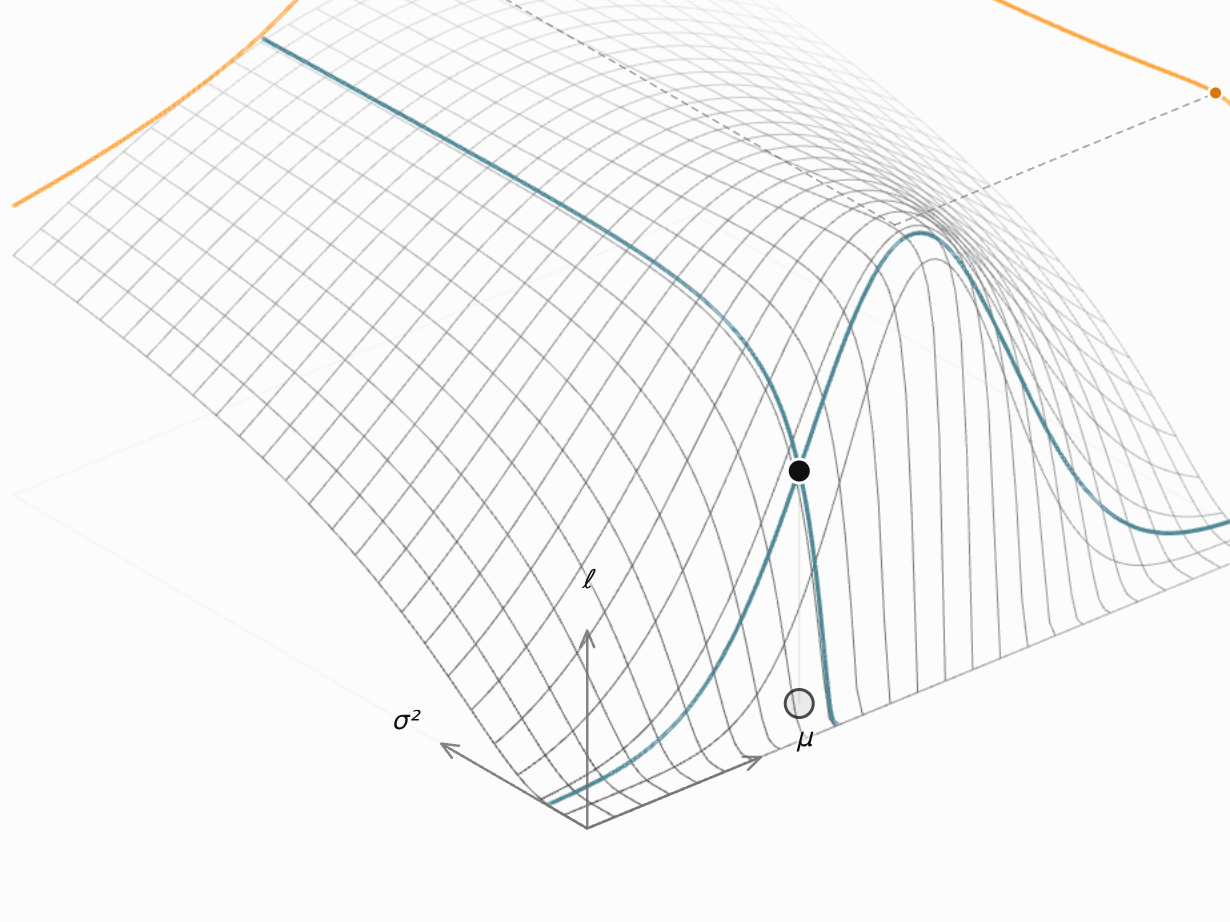
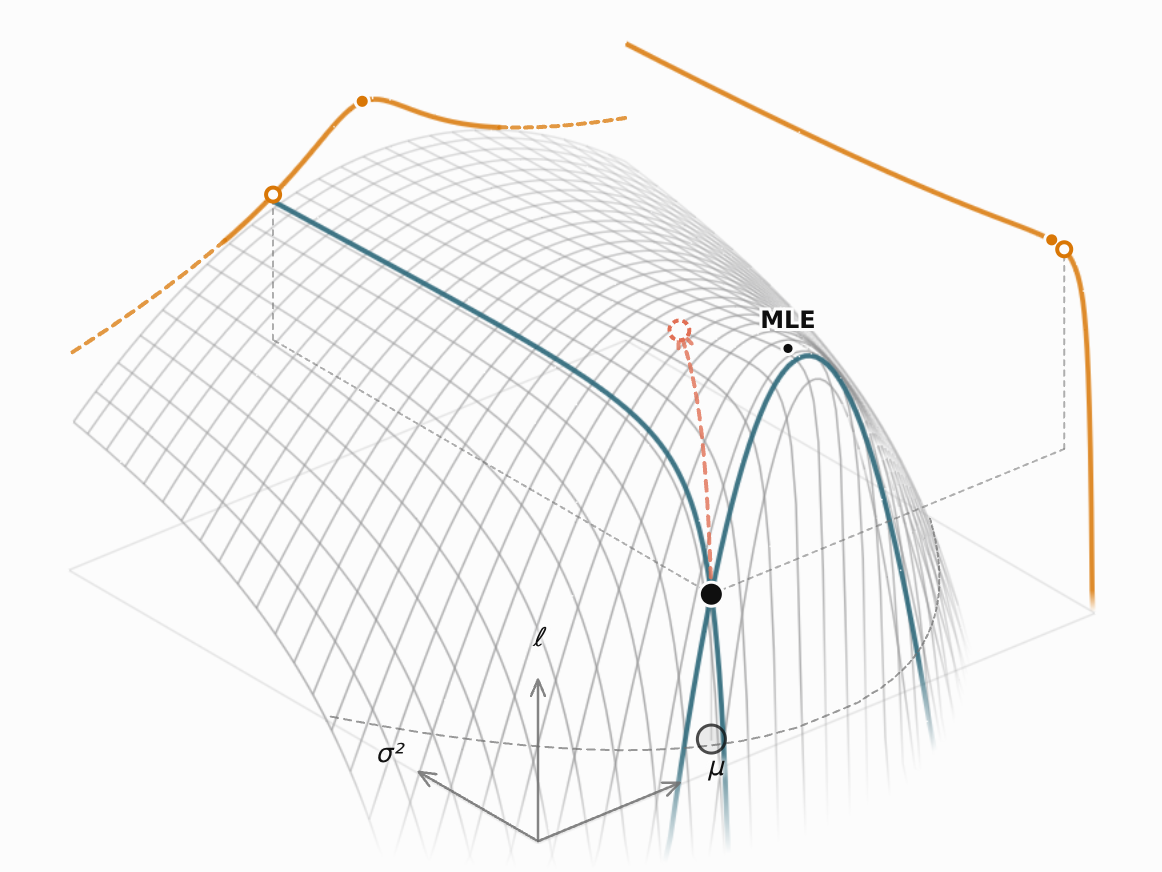
fix(share): reframe likelihood thumbnail, drop mesh-fading filter
The gallery crop was stale and cut off the dome and profile curves. Capture at a 640px viewport so the 1px mesh survives downscaling into the 520px card panel, and hide the view dock and drag hint. contrast(1.25) pushed the light-grey mesh toward white, so remove it. Recapture the likelihood and site cards.

diff --git a/src/routes/share-card/[key]/+page.svelte b/src/routes/share-card/[key]/+page.svelte
@@ -58,7 +58,6 @@
 	class="share-card"
 	class:has-image={card.image}
 	class:site={isSite}
-	class:likelihood={card.key === 'likelihood'}
 	class:type-only={!card.image && !isSite}
 	lang={card.lang}
 	style:width="{SHARE_SIZE.width}px"
@@ -176,10 +175,6 @@
 		align-self: center;
 		aspect-ratio: 4 / 3;
 		max-height: 100%;
-	}
-	.likelihood .figure img {
-		/* Strengthen the fine mesh only in the reduced share crop. */
-		filter: contrast(1.25);
 	}
 	.strip {
 		display: grid;
